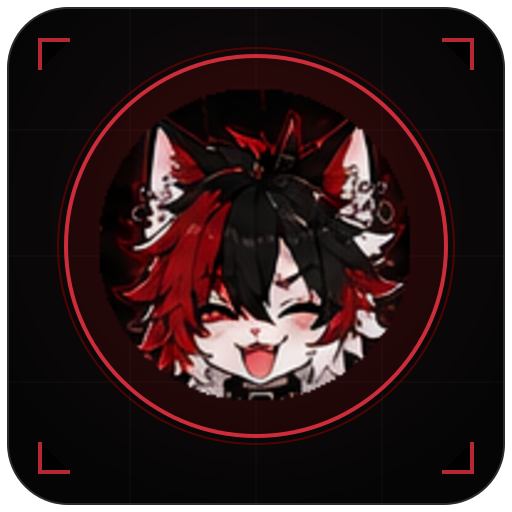
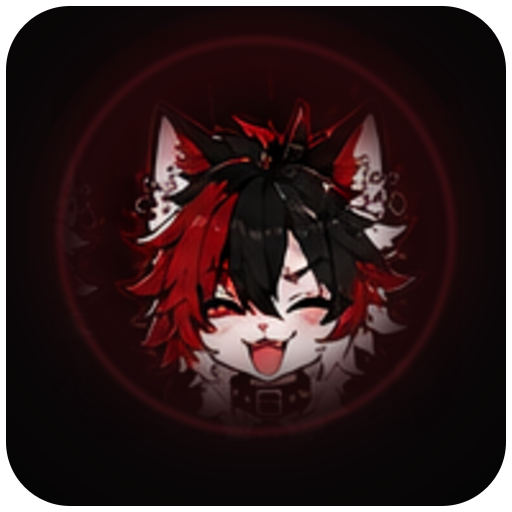
Smooth red-into-black blend + feathered mascot face
Claude-Session: https://claude.ai/code/session_01YP9GyVrXvDdVqzP5w9xig6

diff --git a/index.html b/index.html
@@ -37,6 +37,9 @@
 
   /* hero */
   .hero{text-align:center;padding:54px 20px 40px;position:relative}
+  .hero::before{content:"";position:absolute;left:50%;top:20px;width:640px;height:640px;max-width:95vw;transform:translateX(-50%);
+    background:radial-gradient(circle, rgba(224,48,63,.22), rgba(139,0,0,.12) 42%, transparent 66%);filter:blur(8px);pointer-events:none;z-index:0}
+  .hero>*{position:relative;z-index:1}
   .hero .cat{width:168px;height:168px;filter:drop-shadow(0 14px 40px rgba(139,0,0,.55));
     animation:bob 4s ease-in-out infinite}
   @keyframes bob{50%{transform:translateY(-10px)}}
